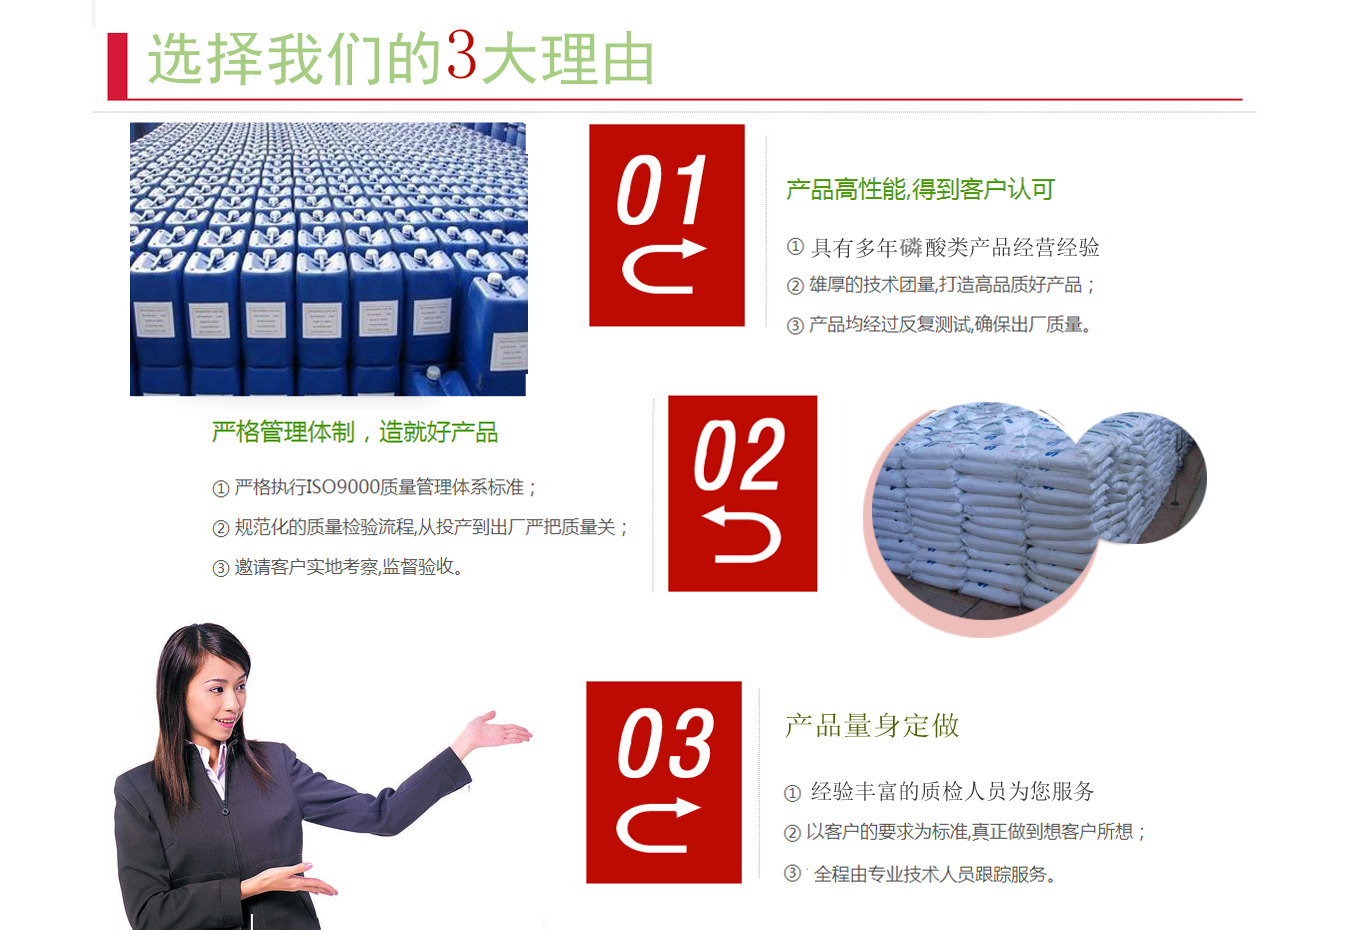
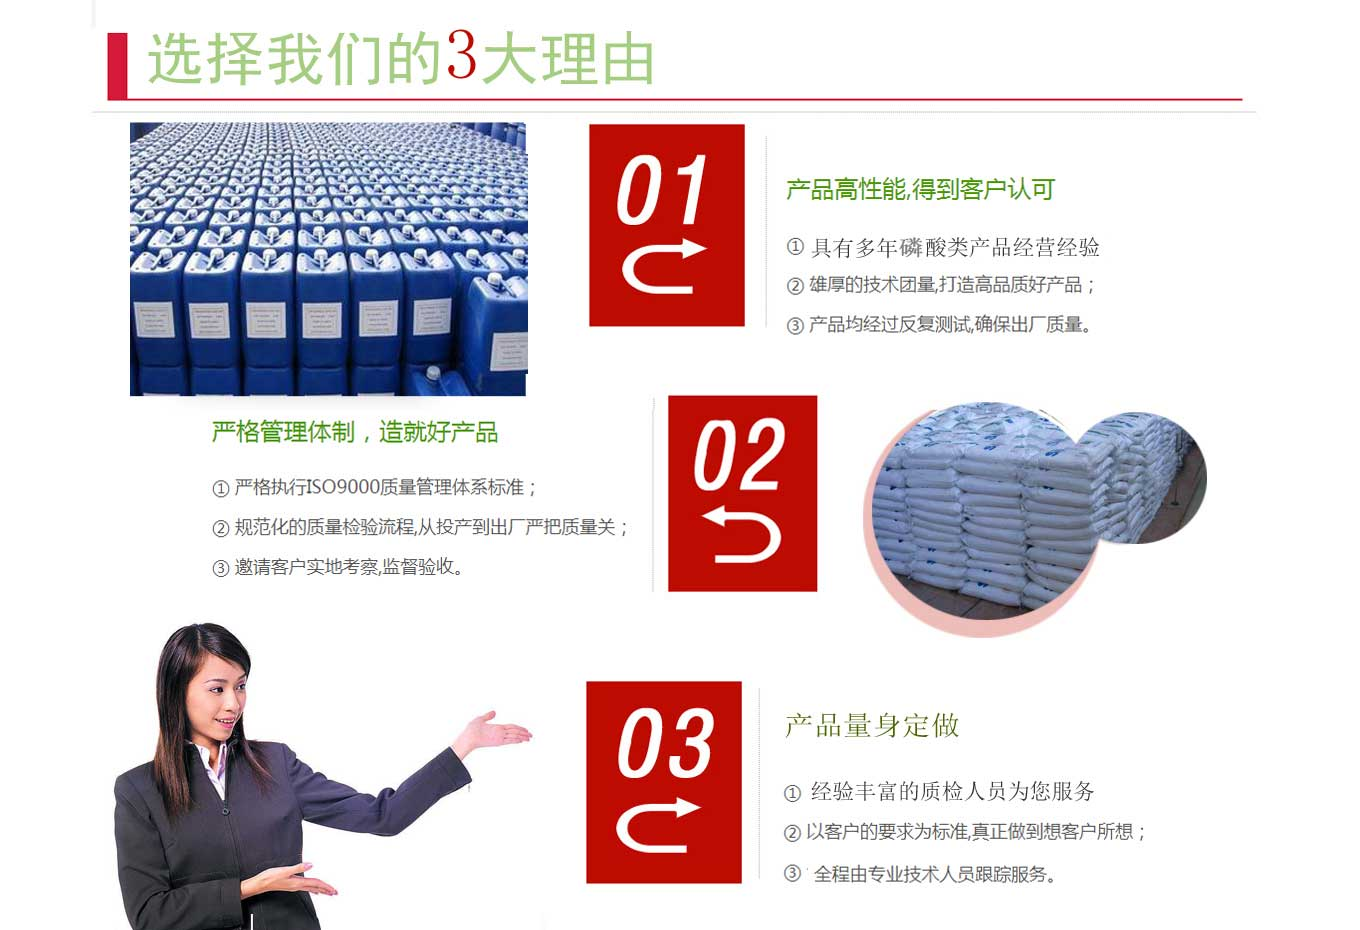
更改图片

diff --git a/public/css/index.css b/public/css/index.css
@@ -17,7 +17,7 @@
     width: 1000px;
     height: 98px;
     margin-left: -350px;
-    overflow: hidden;
+    /*overflow: hidden;*/
 }
 .kwicks .icon01 {
     background-image: url(../images/icon01.png);
@@ -35,14 +35,14 @@
 }
 .kwicks .kwick {
     float: left;
-    width: 115px;
+    /*width: 115px;*/
     height: 98px;
     border-right: 1px solid transparent;
     /*background: url(../images/y-bg4.png) no-repeat right center;*/
     /*overflow: hidden;*/
 }
 .kwicks .kwick div {
-    width: 655px;
+    /*width: 655px;*/
     height: 98px;
     /*background: url(../images/index-icon.png) repeat-x;*/
 }
@@ -50,7 +50,7 @@
     background-image: url(../images/icon01.png);
 }
 .kwicks .kwick div.kwick-nr {
-    width: 503px;
+    /*width: 503px;*/
     height: 98px;
     float: left;
 }
@@ -73,9 +73,9 @@
     padding-top: 10px;
     line-height: 20px;
     margin-left: 24px;
-    width: 650px;
+    width: 680px;
     float: left;
-    font-size: 12px;
+    font-size: 16px;
     /*font-family: '微软雅黑';*/
 }
 

diff --git a/public/css/style.css b/public/css/style.css
@@ -1017,12 +1017,12 @@ ul.gallery li.last{
 }
 /*----------------about---------------*/
 .about_banner{
-	background:url(../images/about.jpg)no-repeat center top;
+	/*background:url(../images/head1.jpg)no-repeat center top;*/
 	background-size:cover;
 	-webkit-background-size:cover;
 	-moz-background-size:cover;
 	-o-background-size:cover;
-	min-height:270px;
+	min-height:220px;
 	text-align:center;
 }
 .about_banner h2{

diff --git a/resources/views/contact.blade.php b/resources/views/contact.blade.php
@@ -1,5 +1,5 @@
 @extends('layout.master')
-@section('title', '温江顺泰化工|联系我们')
+@section('title', '温州顺泰化工|联系我们')
 
 @section('header-tab')
     @include('components.headerTab',['lang'=>$data['lang']])
@@ -132,7 +132,7 @@
             margin-top: 5rem;
         }
         .sidebar .widget {
-            background: #ffffff;
+            background: #FAFAFA !important;
             padding: 21px 30px;
         }
         .widget {
@@ -176,16 +176,26 @@
             padding: 25px 12px 0;
             font-size: 14px;
         }
+        .padding-top form{
+            padding: 25px 12px 0;
+        }
         #map{
             height: 300px;
+        }
+        .about_banner{
+            background:url({{asset('images/head6.jpg')}})no-repeat center top;
+            background-size:cover;
+            -webkit-background-size:cover;
+            -moz-background-size:cover;
+            -o-background-size:cover;
         }
     </style>
 @endsection
 @section('content')
     <div class="about_banner">
         <div class="container">
-            <h2>顺泰化工</h2>
-            <span class="breadcrumbs"><a href="/"><i class="fa fa-home home_1"></i></a> / <span>联系我们</span></span>
+            {{--<h2>顺泰化工</h2>--}}
+            {{--<span class="breadcrumbs"><a href="/"><i class="fa fa-home home_1"></i></a> / <span>联系我们</span></span>--}}
         </div>
     </div>
     <section class="content-wrap">
@@ -253,34 +263,34 @@
         </div>
     </section>
 
-    <div class="container">
-        <div class="raw">
-            <h1 class="title text-center wow fadeInDown" data-wow-duration="500ms" data-wow-delay="300ms">@if($data['lang'] == 1) 给我留言 @else Leaving a message @endif</h1>
-            <p class="text-center wow fadeInDown" style="margin-bottom: 20px;" data-wow-duration="400ms" data-wow-delay="400ms">
-                @if($data['lang'] == 1) 欢迎您光临本公司网站，请您填写以下信息，我们将会与您保持联系，谢谢! @else
-
-                    Welcome to our website. Please fill in the following information. We will keep in touch with you. Thank you!
-                @endif
-            </p>
-            <div class="col-md-4 col-sm-6">
-                <div class="contact-info bottom">
-                    <h2>@if($data['lang'] == 1) 联系方式 @else Contacts @endif</h2>
-                    <address>
-                        <p> @if($data['lang'] == 1) 邮箱 @else E-mail @endif: <a href="mailto:{{$data['about']->email}}">{{$data['about']->email}}</a></p>
-                        <p> @if($data['lang'] == 1) 电话 @else Phone  @endif: {{$data['about']->tel}}</p>
-                        <p> @if($data['lang'] == 1) 传真 @else Fax    @endif: {{$data['about']->fax}}</p>
-                        <p> @if($data['lang'] == 1) 公司地址 @else Address @endif:{{$data['about']->address}}</p>
-                    </address>
-
-                    {{--<h2></h2>--}}
-                    {{--<address>--}}
-                       {{--<p>{{$data['about']->address}}</p>--}}
-                    {{--</address>--}}
+    <section class="content-wrap">
+        <div class="container">
+            <div class="row">
+                <div class="col-md-3 col-sm-4 padding-top">
+                    <div class="sidebar portfolio-sidebar">
+                        <div class="sidebar-item  recent">
+                            <div class="widget">
+                                <h3 class="title">@if($data['lang']==1) 联系我们 @else Contact Us @endif</h3>
+                                <div class="content community">
+                                    <p>@if($data['lang']==1) 电话 @else Phone @endif：{{$data['about']->tel}}</p>
+                                    <p>@if($data['lang']==1) 邮箱 @else E-mail @endif：{{$data['about']->email}}</p>
+                                    <p>@if($data['lang']==1) 传真 @else Fax @endif：{{$data['about']->fax}}</p>
+                                    <p>@if($data['lang']==1) 公司地址 @else Address @endif：{{$data['about']->address}}</p>
+                                    {{--<p><a href="http://wenda.ghostchina.com/" title="Ghost中文网问答社区" target="_blank" onclick="_hmt.push(['_trackEvent', 'big-button', 'click', '问答社区'])"><i class="fa fa-comments"></i> 问答社区</a></p>--}}
+                                    {{--<p><a href="http://weibo.com/ghostchinacom" title="Ghost中文网官方微博" target="_blank" onclick="_hmt.push(['_trackEvent', 'big-button', 'click', '官方微博'])"><i class="fa fa-weibo"></i> 官方微博</a></p>--}}
+                                </div>
+                            </div>
+                        </div>
+                    </div>
                 </div>
-            </div>
-            <div class="col-md-8 col-sm-12">
-                <div class="contact-form bottom">
-                    {{--<h2>联系我们</h2>--}}
+                <div class="col-md-9 col-sm-8 padding-top">
+                    <h1 class="title text-center wow fadeInDown" data-wow-duration="500ms" data-wow-delay="300ms">@if($data['lang'] == 1) 给我留言 @else Leaving a message @endif</h1>
+                    <p class="text-center wow fadeInDown" style="margin-bottom: 20px;" data-wow-duration="400ms" data-wow-delay="400ms">
+                        @if($data['lang'] == 1) 欢迎您光临本公司网站，请您填写以下信息，我们将会与您保持联系，谢谢! @else
+
+                            Welcome to our website. Please fill in the following information. We will keep in touch with you. Thank you!
+                        @endif
+                    </p>
                     <form id="main-contact-form" name="contact-form" method="post">
                         <div class="form-group">
                             <input type="text" name="name" class="form-control" required="required" placeholder="@if($data['lang'] == 1) 您的姓名 @else Name @endif">
@@ -297,8 +307,8 @@
                     </form>
                 </div>
             </div>
-    </div>
-    </div>
+        </div>
+    </section>
 
 @endsection
 @section('footer')

diff --git a/resources/views/index.blade.php b/resources/views/index.blade.php
@@ -1,5 +1,5 @@
 @extends('layout.master')
-@section('title', '温江顺泰化工|首页')
+@section('title', '温州顺泰化工|首页')
 
 @section('header-tab')
     @include('components.headerTab',['lang'=>$data['lang']])
@@ -94,7 +94,12 @@
                 @else
                     <li clearfix>
                         <div class="images">
-                            <img src="images/banner_1.jpg" alt=""/>
+                            <img src="images/banner_4.jpg" alt=""/>
+                        </div>
+                    </li>
+                    <li clearfix>
+                        <div class="images">
+                            <img src="images/banner_5.png" alt=""/>
                         </div>
                     </li>
                     <li clearfix>
@@ -110,7 +115,7 @@
     <div class="module">
         <div class="center index-center">
             <div class="kwicks">
-                <div class="kwick first" style="width: 655px;">
+                <div class="kwick first">
                     <div> <span class="icon icon01" style="background-color: #00adb5;"></span>
                         <div class="kwick-nr"> <a href="/advantage">
                                 <p><img src="{{asset('images/20140216214449602.jpg')}}" alt=""></p>

diff --git a/resources/views/newsdetail.blade.php b/resources/views/newsdetail.blade.php
@@ -1,5 +1,5 @@
 @extends('layout.master')
-@section('title', '新闻详情|温江顺泰化工')
+@section('title', '新闻详情|温州顺泰化工')
 
 @section('header-tab')
     @include('components.headerTab',['lang'=>$data['lang']])
@@ -63,13 +63,20 @@
             margin-top: 20px;
             min-height: 560px;
         }
+        .about_banner{
+            background:url({{asset('images/head5.jpg')}})no-repeat center top;
+            background-size:cover;
+            -webkit-background-size:cover;
+            -moz-background-size:cover;
+            -o-background-size:cover;
+        }
     </style>
 @endsection
 @section('content')
     <div class="about_banner">
         <div class="container">
-            <h2>顺泰化工</h2>
-            <span class="breadcrumbs"><a href="/"><i class="fa fa-home home_1"></i></a> / <span>新闻动态</span> / <span>新闻详情</span></span>
+            {{--<h2>顺泰化工</h2>--}}
+            {{--<span class="breadcrumbs"><a href="/"><i class="fa fa-home home_1"></i></a> / <span>新闻动态</span> / <span>新闻详情</span></span>--}}
         </div>
     </div>
     <div class="containter" style="margin-top: 20px;">

diff --git a/resources/views/marketing.blade.php b/resources/views/marketing.blade.php
@@ -1,5 +1,5 @@
 @extends('layout.master')
-@section('title', '温江顺泰化工|营销网络')
+@section('title', '温州顺泰化工|营销网络')
 
 @section('header-tab')
     @include('components.headerTab',['lang'=>$data['lang']])
@@ -136,13 +136,20 @@
             /*text-align: center;*/
             width: 100%;
         }
+        .about_banner{
+            background:url({{asset('images/head3.jpg')}})no-repeat center top;
+            background-size:cover;
+            -webkit-background-size:cover;
+            -moz-background-size:cover;
+            -o-background-size:cover;
+        }
     </style>
 @endsection
 @section('content')
     <div class="about_banner">
         <div class="container">
-            <h2>顺泰化工</h2>
-            <span class="breadcrumbs"><a href="/"><i class="fa fa-home home_1"></i></a> / <span>营销网络</span></span>
+            {{--<h2>顺泰化工</h2>--}}
+            {{--<span class="breadcrumbs"><a href="/"><i class="fa fa-home home_1"></i></a> / <span>营销网络</span></span>--}}
         </div>
     </div>
     <section class="content-wrap">

diff --git a/resources/views/advantage.blade.php b/resources/views/advantage.blade.php
@@ -1,5 +1,5 @@
 @extends('layout.master')
-@section('title', '温江顺泰化工|优势产品介绍')
+@section('title', '温州顺泰化工|优势产品介绍')
 
 @section('header-tab')
     @include('components.headerTab',['lang'=>$data['lang']])
@@ -135,13 +135,20 @@
             width: 52px;
             height: 52px;
         }
+        .about_banner{
+            background:url({{asset('images/head2.jpg')}})no-repeat center top;
+            background-size:cover;
+            -webkit-background-size:cover;
+            -moz-background-size:cover;
+            -o-background-size:cover;
+        }
     </style>
 @endsection
 @section('content')
     <div class="about_banner">
         <div class="container">
-            <h2>顺泰化工</h2>
-            <span class="breadcrumbs"><a href="/"><i class="fa fa-home home_1"></i></a> / <span>优势产品</span></span>
+            {{--<h2>顺泰化工</h2>--}}
+            {{--<span class="breadcrumbs"><a href="/"><i class="fa fa-home home_1"></i></a> / <span>优势产品</span></span>--}}
         </div>
     </div>
     <section id="projects">

diff --git a/resources/views/news.blade.php b/resources/views/news.blade.php
@@ -1,5 +1,5 @@
 @extends('layout.master')
-@section('title', '温江顺泰化工|新闻动态')
+@section('title', '温州顺泰化工|新闻动态')
 
 @section('header-tab')
     @include('components.headerTab',['lang'=>$data['lang']])
@@ -192,13 +192,20 @@
         .news_ul{
             list-style-type:none;
         }
+        .about_banner{
+            background:url({{asset('images/head5.jpg')}})no-repeat center top;
+            background-size:cover;
+            -webkit-background-size:cover;
+            -moz-background-size:cover;
+            -o-background-size:cover;
+        }
     </style>
 @endsection
 @section('content')
     <div class="about_banner">
         <div class="container">
-            <h2>顺泰化工</h2>
-            <span class="breadcrumbs"><a href="/"><i class="fa fa-home home_1"></i></a> / <span>新闻动态</span></span>
+            {{--<h2>顺泰化工</h2>--}}
+            {{--<span class="breadcrumbs"><a href="/"><i class="fa fa-home home_1"></i></a> / <span>新闻动态</span></span>--}}
         </div>
     </div>
     <section class="content-wrap">

diff --git a/resources/views/products.blade.php b/resources/views/products.blade.php
@@ -1,5 +1,5 @@
 @extends('layout.master')
-@section('title', '温江顺泰化工|产品中心')
+@section('title', '温州顺泰化工|产品中心')
 
 @section('header-tab')
     @include('components.headerTab',['lang'=>$data['lang']])
@@ -137,13 +137,20 @@
             width: 52px;
             height: 52px;
         }
+        .about_banner{
+            background:url({{asset('images/head1.jpg')}})no-repeat center top;
+            background-size:cover;
+            -webkit-background-size:cover;
+            -moz-background-size:cover;
+            -o-background-size:cover;
+        }
     </style>
 @endsection
 @section('content')
     <div class="about_banner">
         <div class="container">
-            <h2>顺泰化工</h2>
-            <span class="breadcrumbs"><a href="/"><i class="fa fa-home home_1"></i></a> / <span>产品中心</span></span>
+            {{--<h2>顺泰化工</h2>--}}
+            {{--<span class="breadcrumbs"><a href="/"><i class="fa fa-home home_1"></i></a> / <span>产品中心</span></span>--}}
         </div>
     </div>
     <section id="projects">

diff --git a/resources/views/about.blade.php b/resources/views/about.blade.php
@@ -1,5 +1,5 @@
 @extends('layout.master')
-@section('title', '温江顺泰化工|关于我们')
+@section('title', '温州顺泰化工|关于我们')
 
 @section('header-tab')
     @include('components.headerTab',['lang'=>$data['lang']])
@@ -97,13 +97,20 @@
             left: 0;
             bottom: -1px;
         }
+        .about_banner{
+            background:url({{asset('images/head4.jpg')}})no-repeat center top;
+            background-size:cover;
+            -webkit-background-size:cover;
+            -moz-background-size:cover;
+            -o-background-size:cover;
+        }
     </style>
 @endsection
 @section('content')
     <div class="about_banner">
         <div class="container">
-            <h2>顺泰化工</h2>
-            <span class="breadcrumbs"><a href="/"><i class="fa fa-home home_1"></i></a> / <span>关于我们</span></span>
+            {{--<h2>顺泰化工</h2>--}}
+            {{--<span class="breadcrumbs"><a href="/"><i class="fa fa-home home_1"></i></a> / <span>关于我们</span></span>--}}
         </div>
     </div>
 

diff --git a/resources/views/copy.blade.php b/resources/views/copy.blade.php
@@ -1,5 +1,5 @@
 @extends('layout.master')
-@section('title', '温江顺泰化工|关于我们')
+@section('title', '温州顺泰化工|关于我们')
 
 @section('header-tab')
     @include('components.headerTab',['lang'=>$data['lang']])
